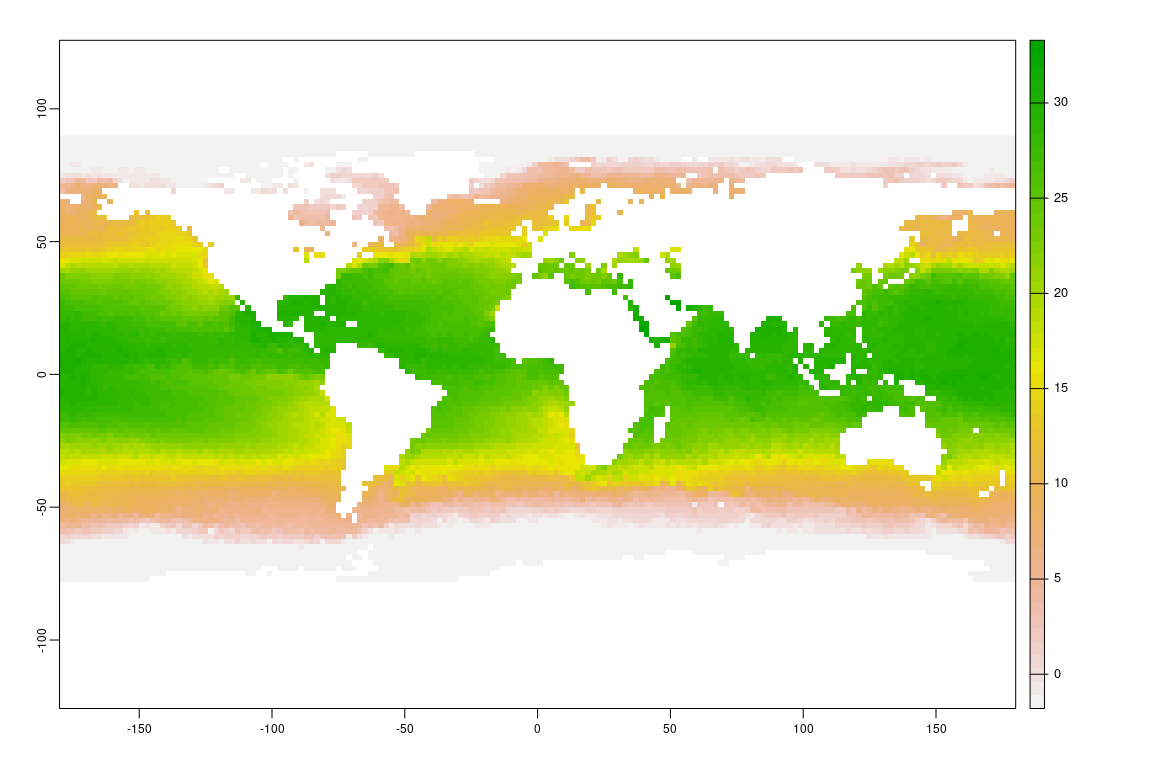
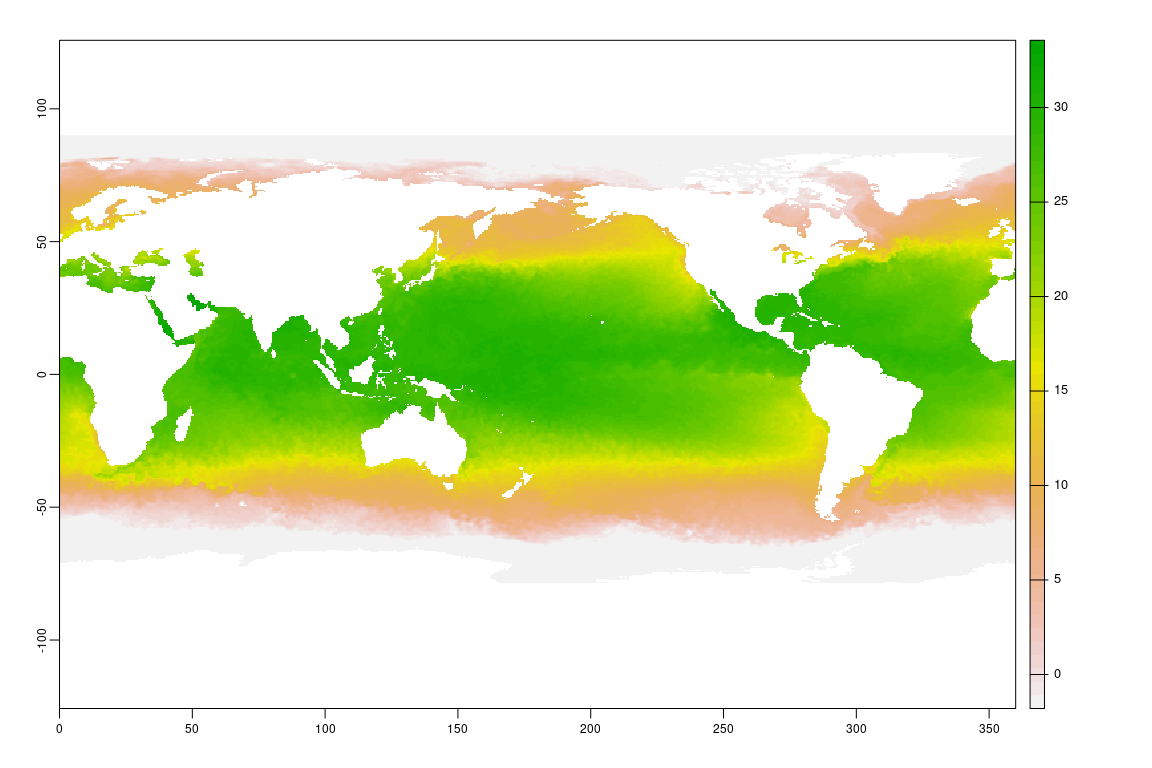
using the dsn and a dummy placeholder grid

diff --git a/README.md b/README.md
@@ -178,7 +178,7 @@ image form.
 ## {spatstat.geom}
 gdalio_im <- function(dsn, ...) {
   v <- gdalio_data(dsn, ...)
-  g <- gdalio_get_default_grid()
+  g <- gdalio_get_default_grid(dsn)
   ## can we have a list of im?
   if (length(v) > 1) message("only returning one image layer im, for now")
   m <- matrix(v[[1]], g$dimension[1])
@@ -188,7 +188,7 @@ gdalio_im <- function(dsn, ...) {
 gdalio_raster <-
 function(dsn, ...) {
   v <- gdalio_data(dsn, ...)
-  g <- gdalio_get_default_grid()
+  g <- gdalio_get_default_grid(dsn)
   r <- raster::raster(raster::extent(g$extent), nrows = g$dimension[2], ncols = g$dimension[1], crs = g$projection)
   if (length(v) > 1) {
     r <- raster::brick(replicate(length(v), r, simplify = FALSE))
@@ -198,7 +198,7 @@ function(dsn, ...) {
 ## {terra}
 gdalio_terra <- function(dsn, ...) {
   v <- gdalio_data(dsn, ...)
-  g <- gdalio_get_default_grid()
+  g <- gdalio_get_default_grid(dsn)
   r <- terra::rast(terra::ext(g$extent), nrows = g$dimension[2], ncols = g$dimension[1], crs = g$projection)
   if (length(v) > 1) terra::nlyr(r) <- length(v)
   terra::setValues(r, do.call(cbind, v))
@@ -206,7 +206,7 @@ gdalio_terra <- function(dsn, ...) {
 ## {stars}
 gdalio_stars <- function(dsn, ...) {
   v <- gdalio_data(dsn, ...)
-  g <- gdalio_get_default_grid()
+  g <- gdalio_get_default_grid(dsn)
   aa <- array(unlist(v, use.names = FALSE), c(g$dimension[1], g$dimension[2], length(v)))#[,g$dimension[2]:1, , drop = FALSE]
   if (length(v) == 1) aa <- aa[,,1, drop = TRUE]
   r <- stars::st_as_stars(sf::st_bbox(c(xmin = g$extent[1], ymin = g$extent[3], xmax = g$extent[2], ymax = g$extent[4])),
@@ -352,12 +352,14 @@ plot(x)
 
 <img src="man/figures/README-twitter-1.png" width="100%" />
 
-## Default grid (there is one)
+## Default grid (a downsampled version of your raster source)
 
 Say we don’t set a grid at all, just go a default. Currently gdalio has
-a default for an entire world longlat grid. This means we can read from
-any source and we’ll get something (though we might not see anything if
-the source is a tiny region).
+a default that is the entire extent of the source, but downsampled to
+*about* a limit for the shorter side. . This means we can read from any
+source and we’ll get something (though, it might take some time like a
+minute or two from rasters tens or hundreds of thousands of pixels per
+side if it doesn’t contain overviews).
 
 ``` r
 gdalio_set_default_grid()
